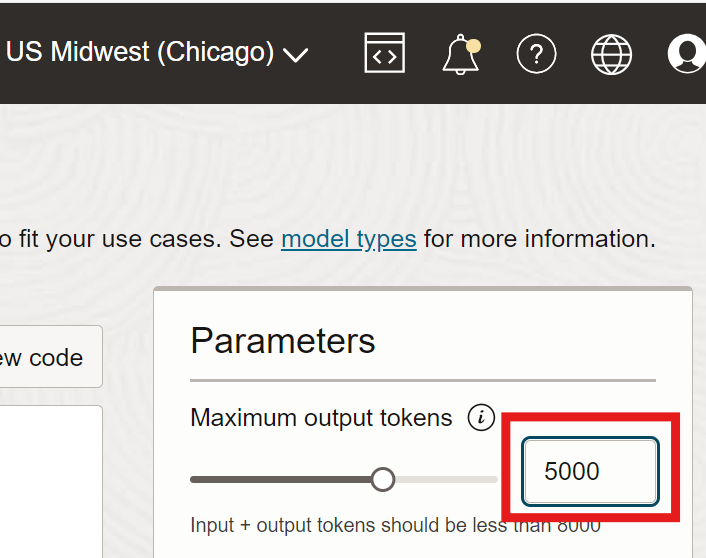
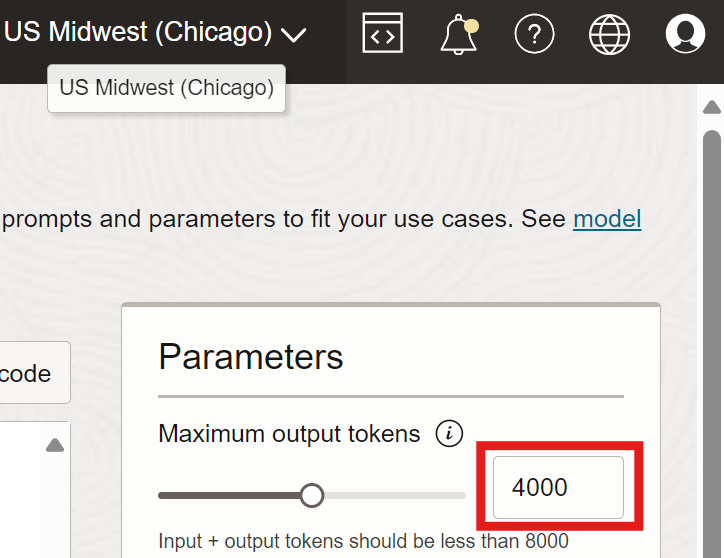
HOL update

diff --git a/ontology-mapping/2-setup/setup.md b/ontology-mapping/2-setup/setup.md
@@ -25,8 +25,7 @@ The OCI Generative AI Agents service operates in multiple but not all regions in
 
 
 1. On the top right, click the Regions drop down menu.
-
-  ![Screenshot showing the tenancy regions list](./images/regions-list.png)
+![Screenshot showing the tenancy regions list](./images/regions-list.png)
 
 1. Review the list of regions your tenancy is subscribed in. If you find the **US Midwest (Chicago)** region in the list, please skip to the next task.
 
@@ -57,19 +56,19 @@ First, we are going to ensure we operate within a region where the Generative AI
   ![Screenshot showing location of the navigation menu](./images/navigation-menu.png)
 
 1. Click **Analytics & AI**. Under AI Services, click **Generative AI**.
-![Screenshot showing how to navigate to Generative AI](./images/select-generative-ai.png)
+  ![Screenshot showing how to navigate to Generative AI](./images/select-generative-ai.png)
 
 1. Click **Chat** from the Generative AI menu.
-![Screenshot showing how to Chat](./images/select-chat.png)
+  ![Screenshot showing how to Chat](./images/select-chat.png)
 
 1. Under Model, select the **meta.llama-3-70b-instruct** model.
-![Screenshot showing how to select the Meta Llama 3 model](./images/select-llama.png)
+  ![Screenshot showing how to select the Meta Llama 3 model](./images/select-llama.png)
 
 1. Click the checkbox indicating you have read the agreement and then click **Submit** to accept.
-![Screenshot showing how to accept the licensing terms of Meta Llama 3](./images/llama-licensing-terms.png)
+  ![Screenshot showing how to accept the licensing terms of Meta Llama 3](./images/llama-licensing-terms.png)
 
-1. In **Parameters**, adjust the Maximum output tokens to 5000.  This will help ensure the model can generate a response of sufficient length.
-![Screenshot showing how to set the maximum output tokens.](./images/set-output-tokens.png)
+1. In **Parameters**, adjust the Maximum output tokens to 4000.  This will help ensure the model can generate a response of sufficient length.  The total context length (input + output tokens) is 8000 tokens.
+  ![Screenshot showing how to set the maximum output tokens.](./images/set-output-tokens.png)
 
 
 
